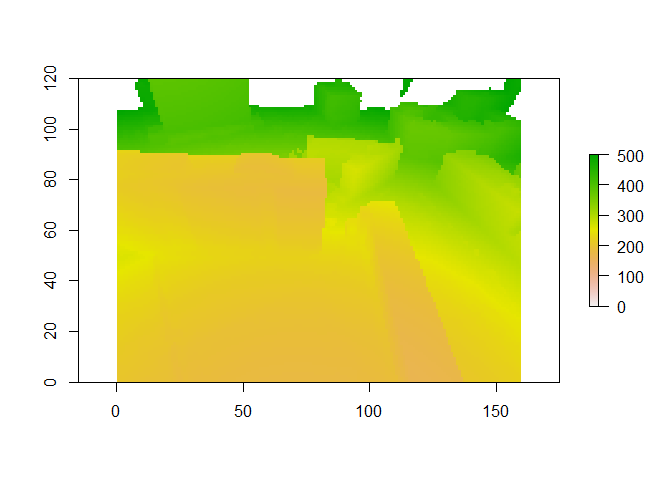
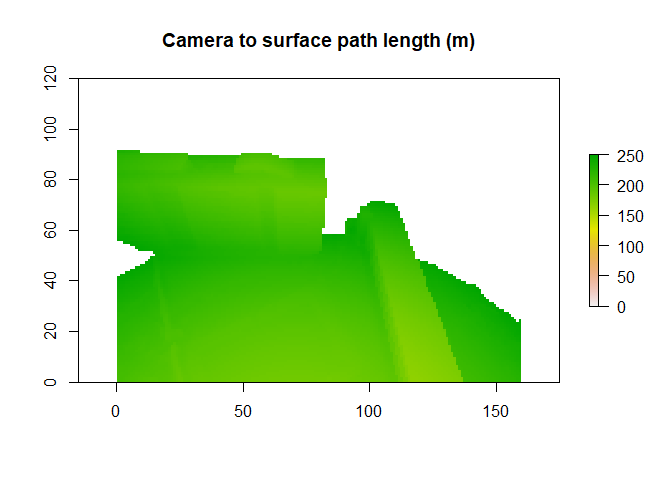
man

diff --git a/tutorials/Multi-line-of-sight-images/README.md b/tutorials/Multi-line-of-sight-images/README.md
@@ -45,7 +45,7 @@ library(raster)
 ```
 
 ```r
-plot(raster("README_files/figure-misc/Camera.tiff"))
+plot(raster("README_files/figure-misc/Camera.tiff"), main = "RAW tiff")
 ```
 
 ![](README_files/figure-gfm/unnamed-chunk-1-2-1.png)<!-- -->
@@ -65,7 +65,7 @@ library(raster)
 RAW <- raster("README_files/figure-misc/Camera.tiff")
 renderDistance <- 5000 # m
 zPath <- (RAW / 65535) * renderDistance
-plot(zPath, zlim = c(0, 500))
+plot(zPath, zlim = c(0, 250), main = "Camera to surface path length (m)")
 ```
 
 ![](README_files/figure-gfm/unnamed-chunk-3-1.png)<!-- -->
